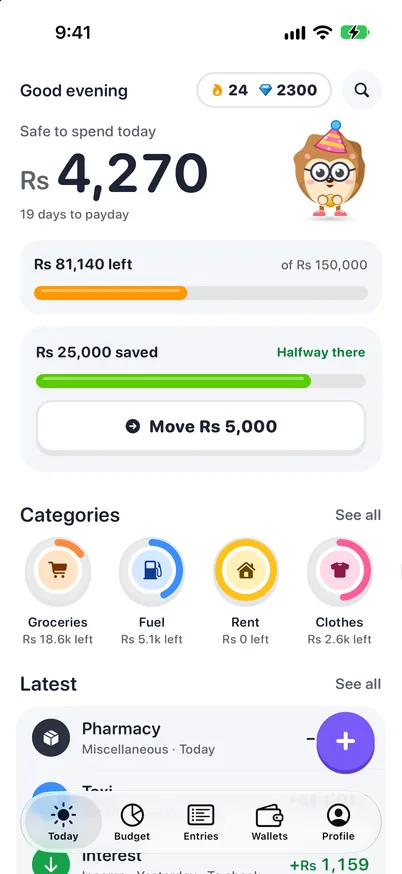
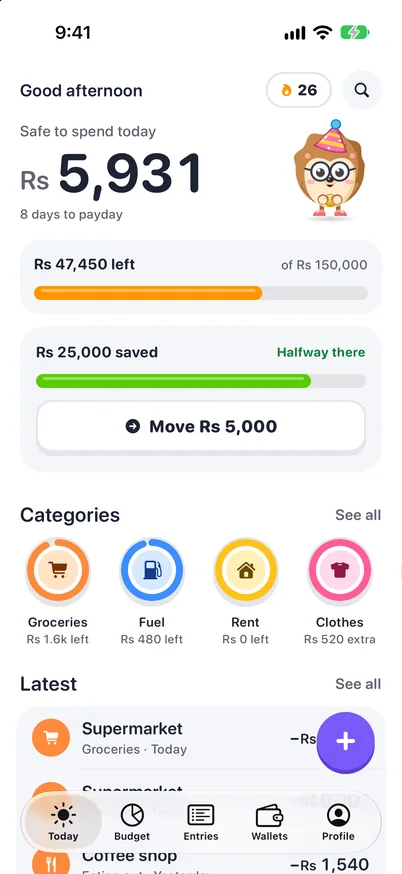
Hedge's trip card, and Today re-shot without the gems chip
The hero's Groceries card and the safe-number card now match the new Today
shot. A full-width card under the grid shows Hedge's trip, from a real crop
of the app's trip scene.

diff --git a/index.html b/index.html
@@ -99,8 +99,8 @@
       </figure>
       <div class="float react-card"><img src="assets/hedge-thumbsUp.png" alt=""><div><b>Rs 450</b><span>Fits easily.</span></div></div>
       <div class="float ring-card">
-        <span class="ring" style="--p:.15;--c:#FF8A3D;--t:#FFE2C6"><svg><use href="#i-cart"/></svg></span>
-        <div><b>Groceries</b><span>Rs 18,620 left</span></div>
+        <span class="ring" style="--p:.93;--c:#FF8A3D;--t:#FFE2C6"><svg><use href="#i-cart"/></svg></span>
+        <div><b>Groceries</b><span>Rs 1,600 left</span></div>
       </div>
       <!-- Waving Hedge with his pupils drawn live (in the picture's own 360 px units) so they follow the cursor -->
       <div class="hero-hedge">
@@ -130,9 +130,9 @@
       <article class="card wide lav">
         <div class="card-copy"><h3>One number each morning</h3><p>What you can spend today without touching rent, bills or what you save. Spend less and tomorrow's number grows.</p></div>
         <div class="art safe-art">
-          <div class="safe-num"><small>Safe to spend today</small><strong><span>Rs</span> 4,270</strong><em>19 days to payday</em></div>
+          <div class="safe-num"><small>Safe to spend today</small><strong><span>Rs</span> 5,931</strong><em>8 days to payday</em></div>
           <img src="assets/hedge-thumbsUp.png" alt="" width="120" height="120">
-          <div class="month-bar"><div><b>Rs 81,140 left</b><span>of Rs 150,000</span></div><i><u style="width:46%"></u></i></div>
+          <div class="month-bar"><div><b>Rs 47,450 left</b><span>of Rs 150,000</span></div><i><u style="width:32%"></u></i></div>
         </div>
       </article>
 
@@ -184,6 +184,12 @@
           <div class="r"><span class="tile" style="background:#15803D"><svg><use href="#i-lock"/></svg></span><b>Lock with Face ID</b><i class="switch on"></i></div>
           <div class="r"><span class="tile" style="background:#8E94A3"><svg><use href="#i-globe"/></svg></span><b>Online</b><span class="val">Exchange rates only</span></div>
         </div>
+      </article>
+
+      <!-- Full width: tap Hedge on Today and his trip opens (a real crop of the app's trip scene) -->
+      <article class="card wide full tan" id="trip">
+        <div class="card-copy"><h3>Hedge's trip</h3><p>Tap Hedge on Today. Every day you track is a step on his walk, and each week he meets a new neighbour.</p></div>
+        <div class="closeup trip-art"><img src="assets/trip-scene.webp" alt="Hedge waving beside his neighbour the rabbit, between two trees" width="792" height="550" loading="lazy"></div>
       </article>
     </div>
   </section>

diff --git a/site.css b/site.css
@@ -405,6 +405,13 @@ video.clip { display: block; width: 100%; aspect-ratio: 600 / 1304; height: auto
 /* The wardrobe clip framed on Hedge: the video fills a rounded window, held on the part where he is */
 .closeup { margin-top: auto; height: 172px; border-radius: 22px; overflow: hidden; background: #fff; box-shadow: 0 0 0 1px rgba(29, 36, 51, .06); }
 .closeup video.clip { width: 100%; height: 100%; aspect-ratio: auto; border-radius: 0; object-fit: cover; object-position: 50% 17%; }
+/* Hedge's trip: one full-width row under the grid; the scene's sky is plain, so crop from the top and keep their feet */
+.bento .full { grid-column: 1 / -1; }
+.trip-art { background: #EAF5DF; }
+.trip-art img { display: block; width: 100%; height: 100%; object-fit: cover; object-position: 50% 88%; }
+@media (min-width: 1081px) {
+  .bento .full .trip-art { flex: 1; align-self: stretch; height: auto; margin-top: 0; }
+}
 @media (max-width: 1080px) {
   .bento .tall .clip-phone { width: 220px; margin: 12px auto 0; }
 }
